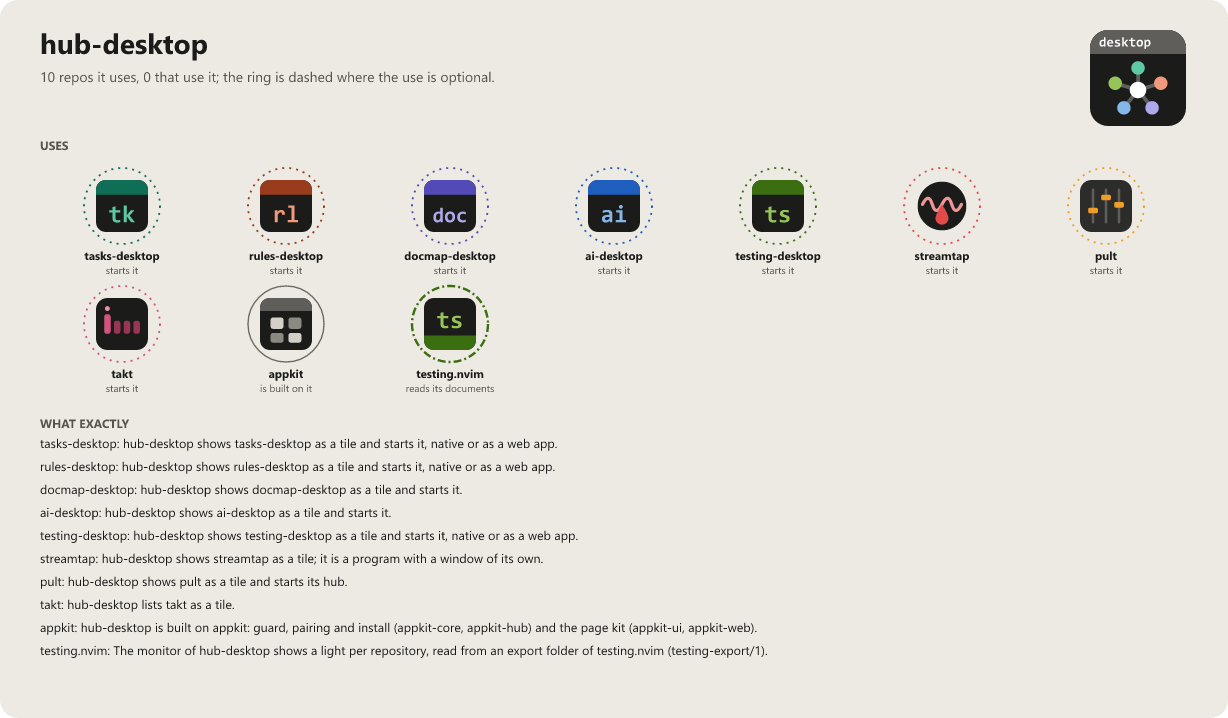
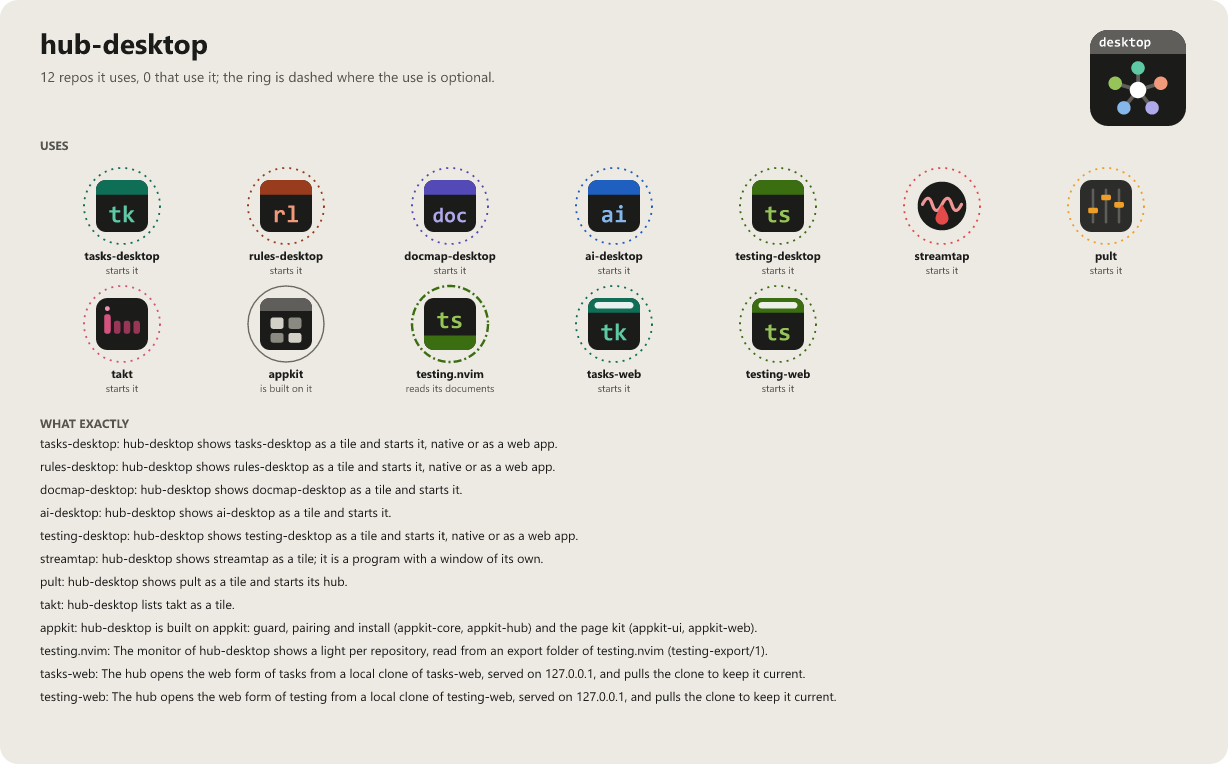
docs(graphs): connections through optional loaders, programs, HTTP and files
The connections picture and the README block now also show what the require rule did not see: optional loads through soft_require, lib.nvim.require.safe and package.loaded, and connections over programs, HTTP and files, each with a line of code as evidence. Written by the app-icons tool of the workshop (graphs.mjs install-repos).

diff --git a/README.md b/README.md
@@ -155,6 +155,8 @@ sentence, without its path.
 - [streamtap](https://github.com/WKDSteve/streamtap): hub-desktop shows streamtap as a tile; it is a program with a window of its own. ([picture](assets/graphs/pair/hub-desktop--streamtap.png))
 - [takt](https://github.com/WKDSteve/takt): hub-desktop lists takt as a tile. ([picture](assets/graphs/pair/hub-desktop--takt.png))
 - [tasks-desktop](https://github.com/WKDSteve/tasks-desktop): hub-desktop shows tasks-desktop as a tile and starts it, native or as a web app. ([picture](assets/graphs/pair/hub-desktop--tasks-desktop.png))
+- [tasks-web](https://github.com/WKDSteve/tasks-web): The hub opens the web form of tasks from a local clone of tasks-web, served on 127.0.0.1, and pulls the clone to keep it current. ([picture](assets/graphs/pair/hub-desktop--tasks-web.png))
 - [testing-desktop](https://github.com/WKDSteve/testing-desktop): hub-desktop shows testing-desktop as a tile and starts it, native or as a web app. ([picture](assets/graphs/pair/hub-desktop--testing-desktop.png))
+- [testing-web](https://github.com/WKDSteve/testing-web): The hub opens the web form of testing from a local clone of testing-web, served on 127.0.0.1, and pulls the clone to keep it current. ([picture](assets/graphs/pair/hub-desktop--testing-web.png))
 - [testing.nvim](https://github.com/WKDSteve/testing.nvim): The monitor of hub-desktop shows a light per repository, read from an export folder of testing.nvim (`testing-export/1`). ([picture](assets/graphs/pair/hub-desktop--testing.nvim.png))
 <!-- connections:end -->
